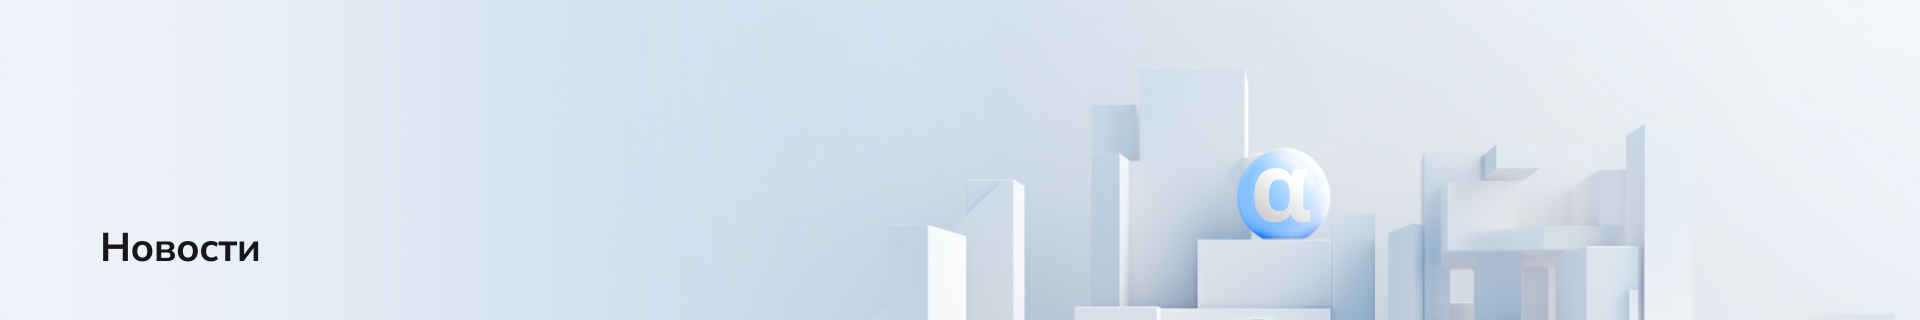
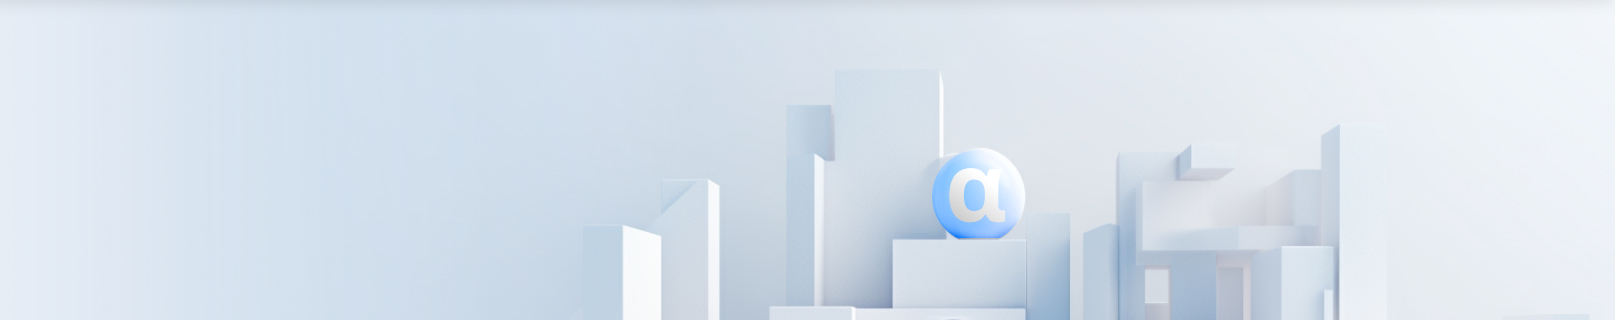
changed background-image, upload font, changed css rules

Changed region(s): [[0.3715, 0.3125, 0.8669, 1.0], [0.031, 0.75, 0.1548, 0.8125], [0.031, 0.0, 0.2167, 0.0312]]

diff --git a/src/assets/css/main.css b/src/assets/css/main.css
@@ -5,6 +5,8 @@
 body {
   margin: 0;
   padding: 0;
+  color: #222327;
+  font-family: "Nunito Sans", Helvetica, sans-serif;
 }
 
 header {
@@ -28,16 +30,26 @@ footer {
   background-image: url("/src/assets/img/hero-background.jpeg");
   background-repeat: no-repeat;
   height: 320px;
-  background-image: contain;
+  background-size: cover;
+  text-align: left;
+  padding-top: 220px;
+}
+
+.news__header h1 {
+  color: #17171a;
+  font-size: 40px;
+  font-style: normal;
+  font-weight: 700;
+  line-height: 48px;
+  letter-spacing: -0.4px;
 }
 
 .news__list {
   list-style: none;
   padding-top: 30px;
 }
-
 .card {
-  border: 1px solid #0f62fe;
+  box-shadow: inset 0px 0px 0px 1px rgba(15, 98, 254, 0.5);
   border-radius: 20px;
   text-align: left;
   min-height: 554px;
@@ -69,20 +81,26 @@ footer {
 
 .card__img {
   width: 100%;
+  height: 250px;
+  object-fit: cover;
   border-top-left-radius: 20px;
   border-top-right-radius: 20px;
-  height: 250px;
 }
 
 .card__name {
   color: #0f62fe;
   font-size: 26px;
   line-height: 28px;
+  font-style: normal;
+  font-weight: 400;
 }
 
 .card__preview {
   font-size: 20px;
   line-height: 26px;
+  font-style: normal;
+  font-weight: 400;
+  letter-spacing: -0.2px;
 }
 
 .container {
@@ -108,7 +126,15 @@ footer {
   background-color: #f0f6fe;
 }
 
+.footer__logo {
+  margin-bottom: 15px;
+}
+
 @media screen and (min-width: 768px) {
+  header {
+    padding-top: 40px;
+    padding-bottom: 40px;
+  }
   .container {
     padding-left: 50px;
     padding-right: 50px;
@@ -133,7 +159,7 @@ footer {
   }
 
   .card__text {
-    padding: 30px;
+    padding: 32px;
   }
 
   footer {

diff --git a/public/index.html b/public/index.html
@@ -9,6 +9,12 @@
       rel="stylesheet"
       href="https://cdnjs.cloudflare.com/ajax/libs/normalize/8.0.1/normalize.min.css"
     />
+    <link rel="preconnect" href="https://fonts.googleapis.com" />
+    <link rel="preconnect" href="https://fonts.gstatic.com" crossorigin />
+    <link
+      href="https://fonts.googleapis.com/css2?family=Montserrat:wght@100;400&family=Nunito+Sans:opsz,wght@6..12,200;6..12,400&family=Tenor+Sans&display=swap"
+      rel="stylesheet"
+    />
 
     <title><%= htmlWebpackPlugin.options.title %></title>
   </head>

diff --git a/src/components/NewsList.vue b/src/components/NewsList.vue
@@ -1,6 +1,8 @@
 <template>
   <div class="news">
-    <div class="news__header"></div>
+    <div class="news__header container">
+      <h1>Новости</h1>
+    </div>
     <ul class="news__list list container">
       <li class="list__card card" v-for="item in news" :key="item.id">
         <img class="card__img" v-if="item.image" :src="item.image" />

diff --git a/src/components/AppFooter.vue b/src/components/AppFooter.vue
@@ -1,6 +1,6 @@
 <template>
-  <footer class="container">
-    <img src="./../assets/img/logo.svg" alt="Logo" />
-    <div>&copy; alpha, 2023</div>
+  <footer class="container footer">
+    <img class="footer__logo" src="./../assets/img/logo.svg" alt="Logo" />
+    <div class="footer__copyright">&copy; alpha, 2023</div>
   </footer>
 </template>
